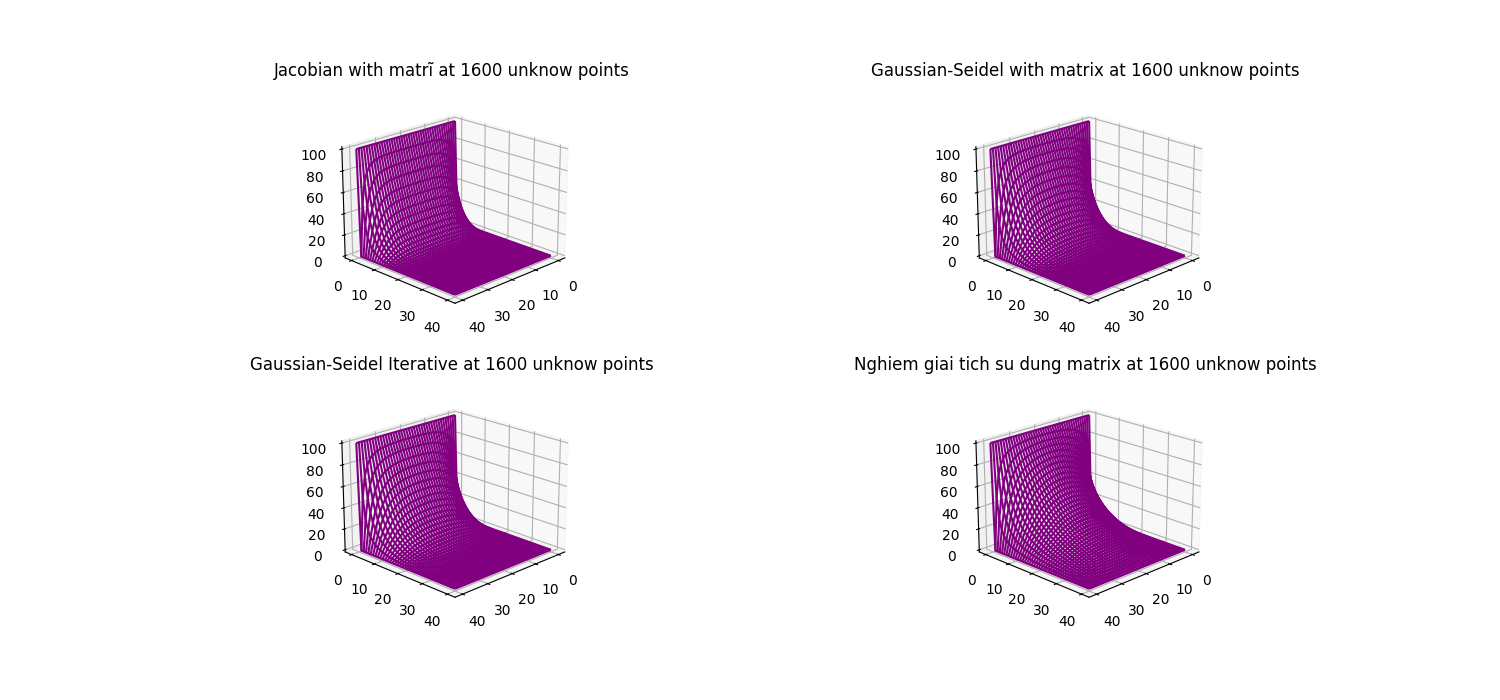
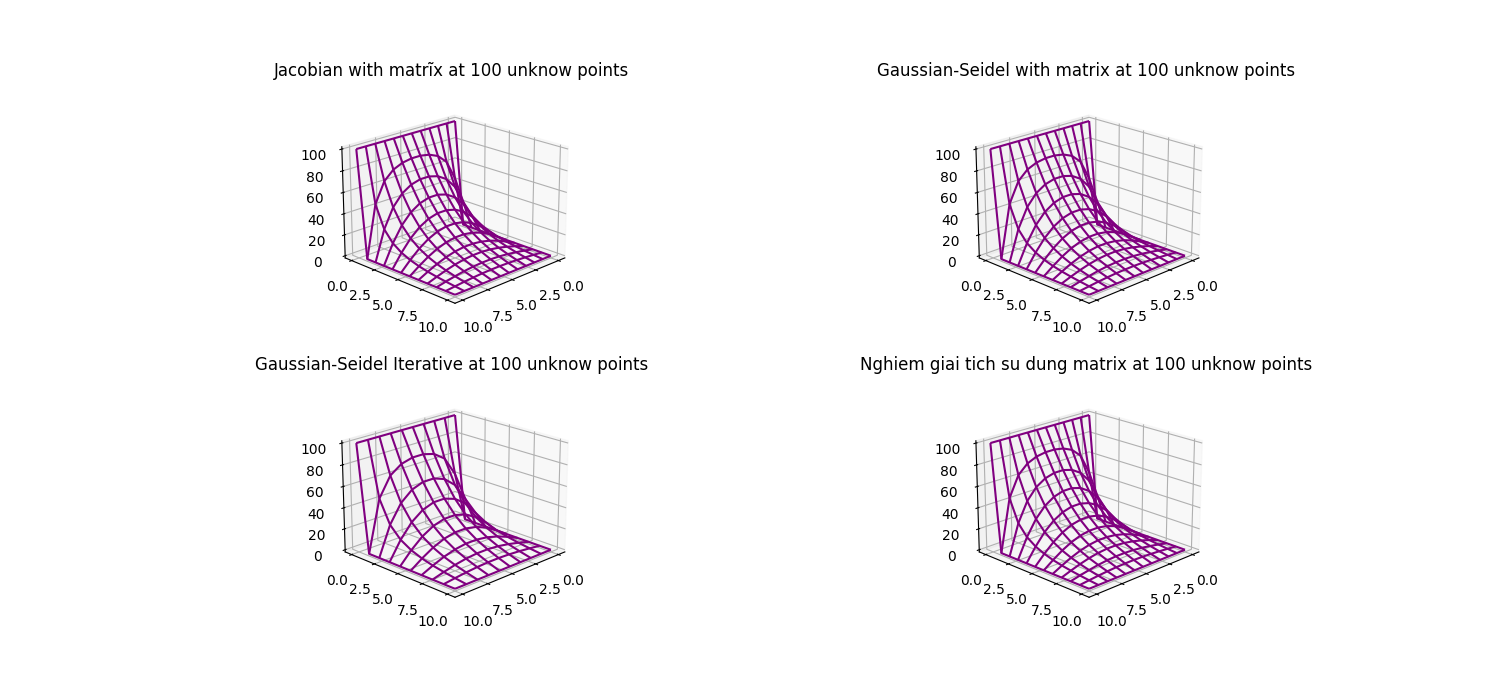
update main have new write file

diff --git a/buoi_7_3110/main.py b/buoi_7_3110/main.py
@@ -7,7 +7,7 @@ import matplotlib.pyplot as plt
 import csv
 from tqdm import tqdm
 
-np.set_printoptions(precision=10, linewidth=120, edgeitems=12)
+np.set_printoptions(precision=10, linewidth=120, edgeitems=15)
 
 
 def createMatrix(dim: int):
@@ -126,7 +126,7 @@ def createMatrix(dim: int):
 
     for i in range(0, dim):
         BMatrix[i] = -100
-        BMatrix[-i - 1] = 100
+        # BMatrix[-i - 1] = 100
 
     return AMatrix, BMatrix
 
@@ -142,7 +142,7 @@ def MatrixFull(matrix, value):
             matrixFull[i, j] = matrix[i - 1, j - 1]
     for i in range(0, size + 2):
         matrixFull[0, i] = value
-        MatrixFull[size + 1, i] = -value
+        # MatrixFull[size + 1, i] = -value
 
     return matrixFull
 
@@ -208,28 +208,31 @@ def plotSol(file, grid, vMatrixJacobi, vMatrixGauss, GaussWOMatrix, vGiaiTich):
 def saveLog(file: str, N, Jacobian, Gaussian, i, j):
     with open(file, "w", newline="") as writefile:
         header = [f"{'n':^4}", f"{'i':^4}", f"{'j':^4}", f"{'Jacobian':^18}", f"{'Gaussian':^18}"]
-        writer = csv.DictWriter(writefile, fieldnames=header, delimiter="|")
+        writer = csv.DictWriter(writefile, fieldnames=header, delimiter=f"{"\t":<1}")
         writer.writeheader()
 
         n = 0
         for ith in range(0, i):
             for jth in range(0, j):
+
                 writer.writerow(
                     {
                         f"{'n':^4}": f"{n:^4}",
                         f"{'i':^4}": f"{ith:^4}",
                         f"{'j':^4}": f"{jth:^4}",
-                        f"{'Jacobian':^18}": f"{Jacobian[n]:^18}" if n < len(Jacobian) else f"{'':<18}",
-                        f"{'Gaussian':^18}": f"{Gaussian[n]:^18}" if n < len(Gaussian) else f"{'':<18}",
+                        f"{'Jacobian':^18}": f"{Jacobian[ith][jth]:^18}",
+                        f"{'Gaussian':^18}": f"{Gaussian[ith][jth]:^18}",
                     }
                 )
+                # print(ith, jth)
                 n += 1
+            writer.writerow({})
 
 
 def main():
     numberLoop = 100
     ic = 100
-    unknowPoints = 40
+    unknowPoints = 10
     i, j = unknowPoints, unknowPoints
     dim = unknowPoints
     fileSave = "ElectricPotentials.txt"
@@ -237,15 +240,15 @@ def main():
 
     AMatrix, BMatrix = createMatrix(dim)
     eigenFunction = np.zeros([dim**2, 1])
-    print(eigenFunction)
-    print((AMatrix))
-    print((BMatrix))
+    # print(eigenFunction)
+    # print((AMatrix))
+    # print((BMatrix))
     ugauss, loops = solveLoop(AMatrix, BMatrix, dim, FArrMatrixGauss, numberLoop, eigenFunction)
     ujacobi, loops = solveLoop(AMatrix, BMatrix, dim, FArrMatrixJacobian, numberLoop, eigenFunction)
     uSolution = np.linalg.solve(AMatrix, BMatrix)
-    print(ugauss)
-    print(ujacobi)
-    print(uSolution)
+    # print(ugauss)
+    # print(ujacobi)
+    # print(uSolution)
     #
     vgauss = np.reshape(ugauss, [i, j])
     vjacobi = np.reshape(ujacobi, [i, j])
@@ -254,13 +257,14 @@ def main():
     vjacobi = MatrixFull(vjacobi, ic)
     vgauss = MatrixFull(vgauss, ic)
     vSolution = MatrixFull(vSolution, ic)
-    print(vjacobi)
+    print(vjacobi.T)
+    # (vjacobi[1][2])
 
     UMatrix = u_values(unknowPoints)
     GaussWOMatrix = Gauss(unknowPoints, numberLoop, UMatrix)
 
     plotSol(filePlot, unknowPoints, vjacobi, vgauss, GaussWOMatrix, vSolution)
-    saveLog(fileSave, numberLoop, ujacobi, ugauss, i, j)
+    saveLog(fileSave, numberLoop, vjacobi.T, vgauss.T, i, j)
 
 
 if __name__ == "__main__":
